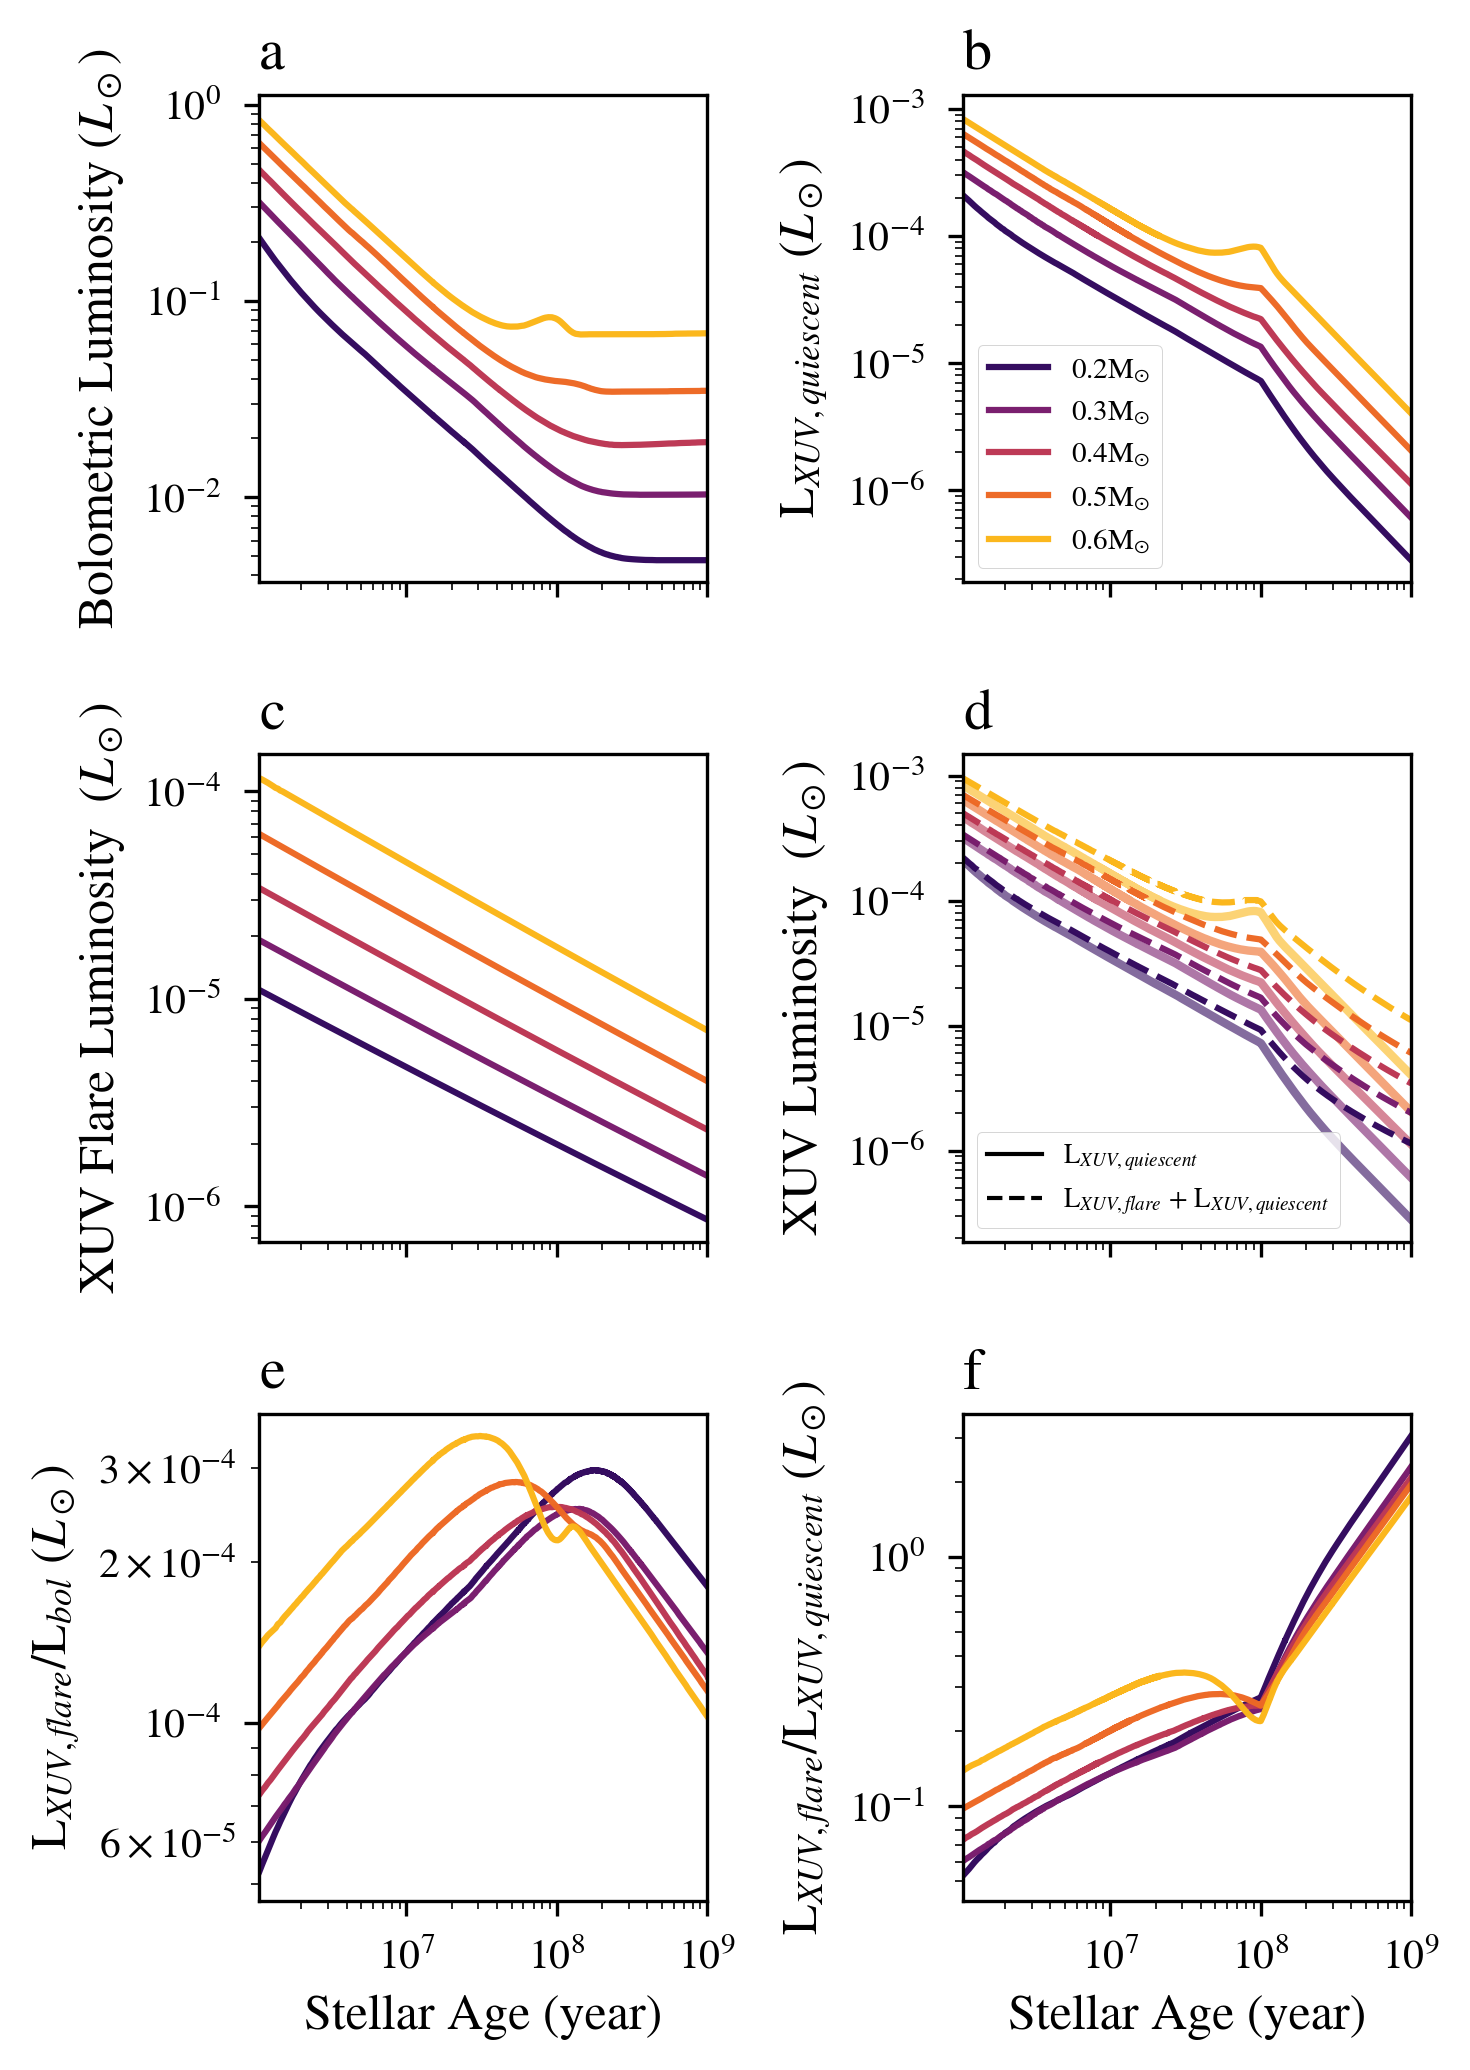
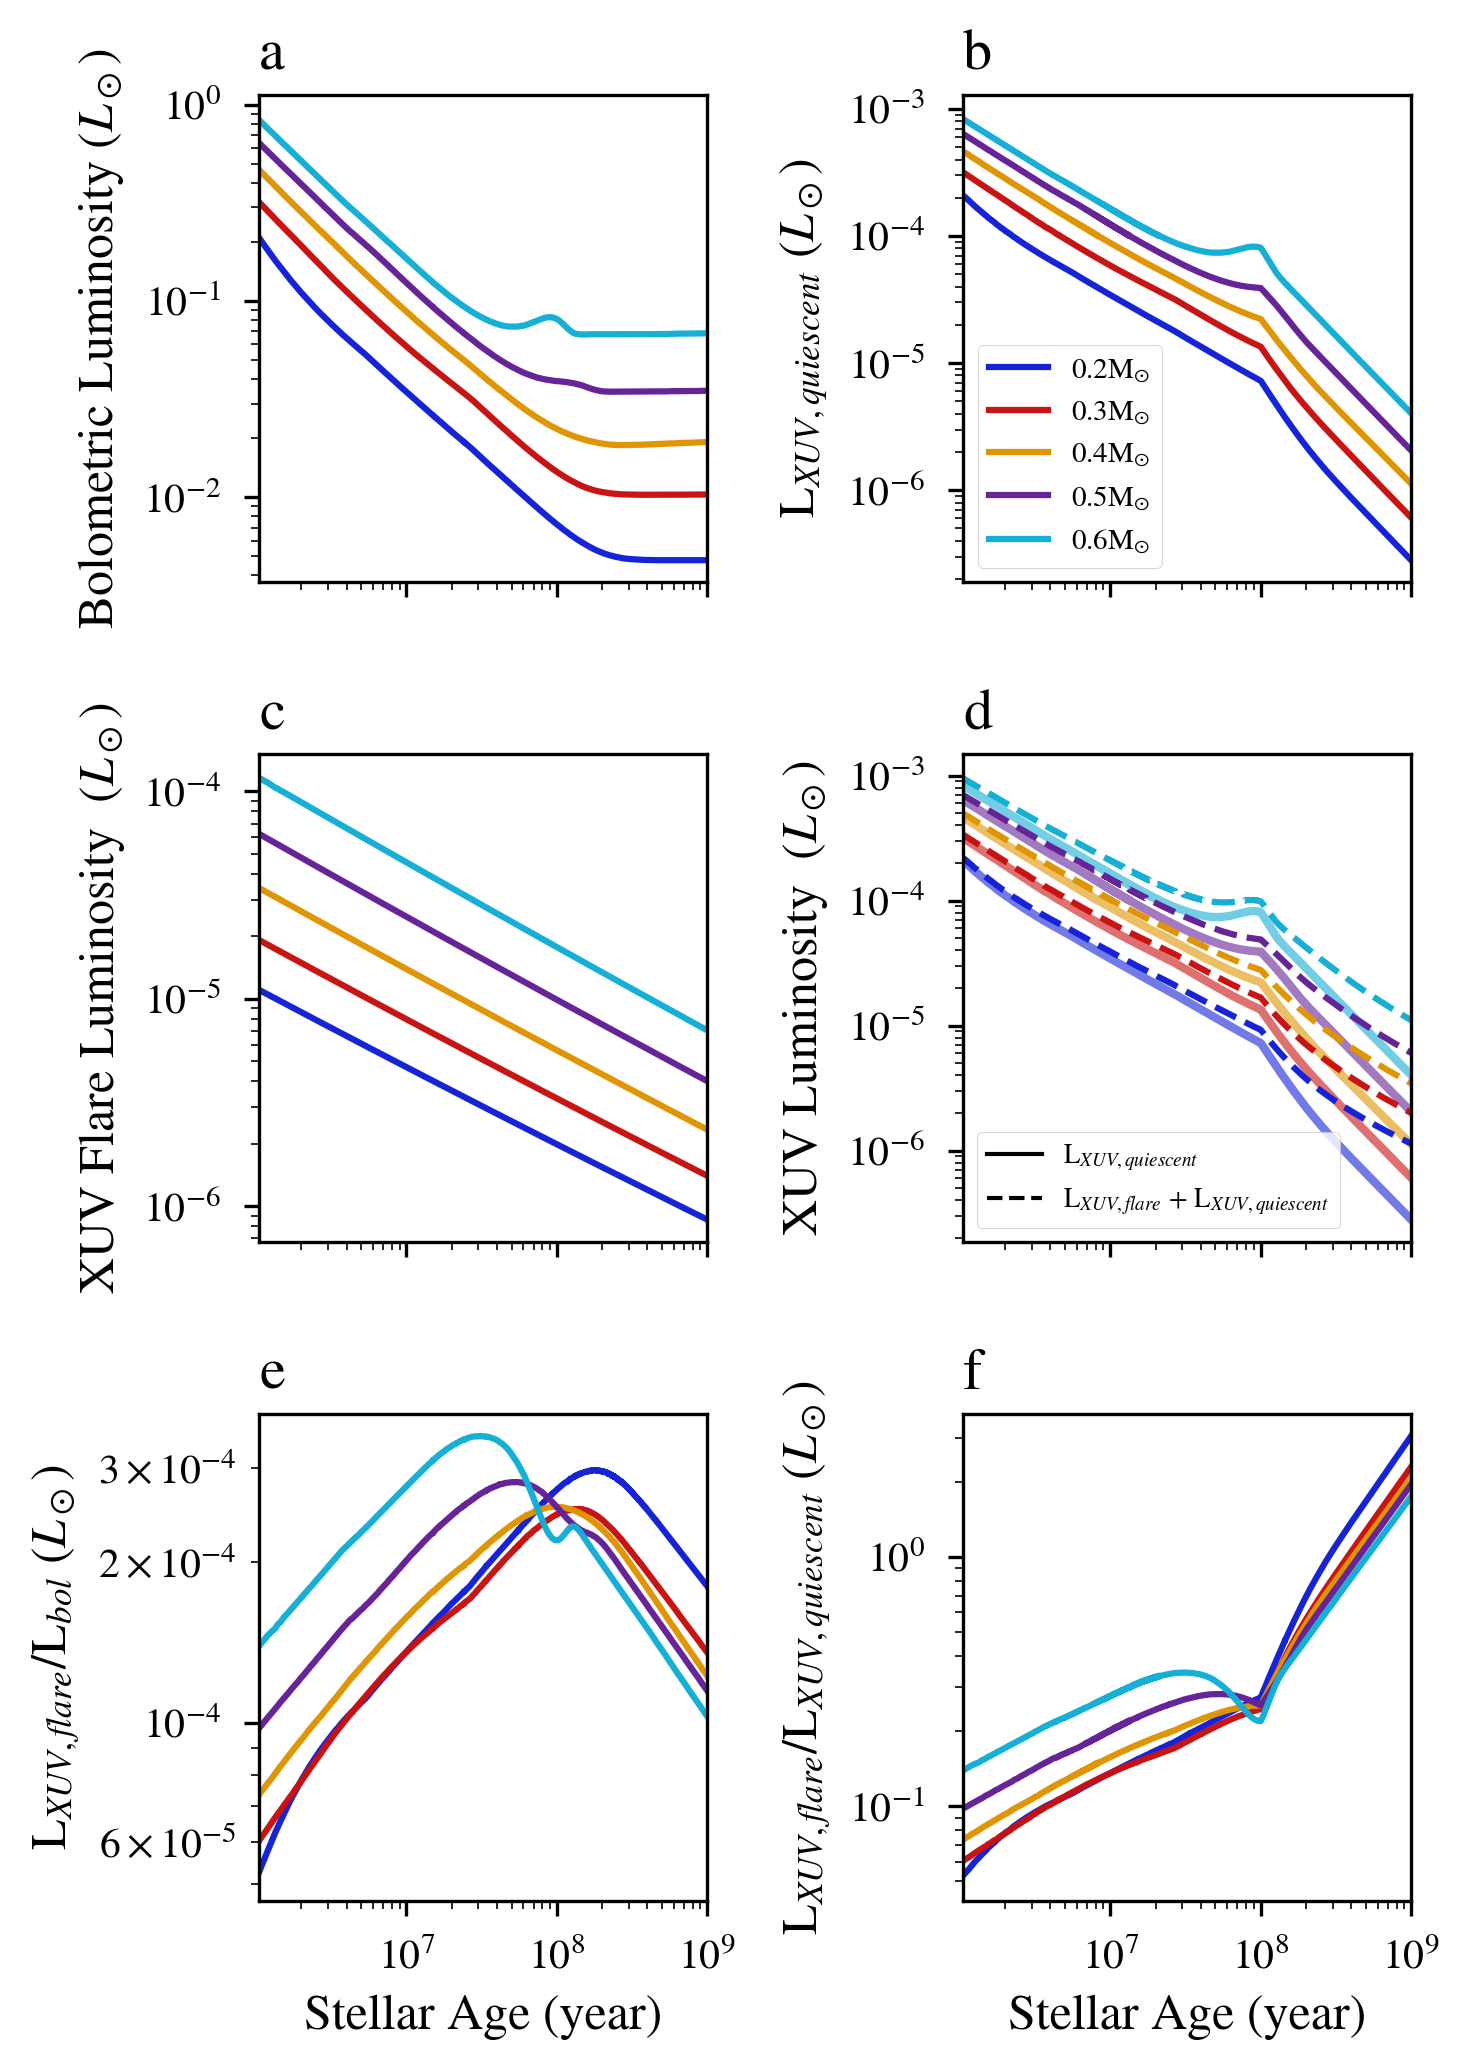
I added the vpl colors to the MDwarfLuminosity example.

diff --git a/examples/MDwarfLuminosity/makeplot.py b/examples/MDwarfLuminosity/makeplot.py
@@ -37,6 +37,14 @@ if sys.argv[1] != "pdf" and sys.argv[1] != "png":
 
 path = pathlib.Path(__file__).parents[0].absolute()
 sys.path.insert(1, str(path.parents[0]))
+# Overwritten old files
+directory = ["./LumEvolFlare", "./LumEvolStellar"]
+
+for i in directory:
+    os.chdir(i)
+    os.system("rm *.log")
+    os.system("rm *.forward")
+    os.chdir(path)
 
 
 # Running the simulations
@@ -109,7 +117,13 @@ time05f = fage[3]
 time06f = fage[4]
 
 
-cmap = sns.color_palette("inferno", n_colors=5)
+cmap = [
+    vpl.colors.dark_blue,
+    vpl.colors.red,
+    vpl.colors.orange,
+    vpl.colors.purple,
+    vpl.colors.pale_blue,
+]
 
 # alpha value
 a = 0.6
